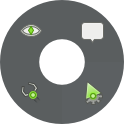
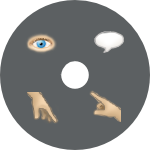
New action menu images from Robin

diff --git a/Renderer.py b/Renderer.py
@@ -125,18 +125,17 @@ class Renderer:
 
         #Topicmenu
         if self.Game.TopicMenu.visible and not self.Game.ScriptManager.isActive():
-            self.screen.blit(self.topicMenuImage,self.Game.TopicMenu.rect)
             for topic in self.Game.TopicMenu.topics:
                 self.screen.blit(topic.render,topic.pos)
                 
         #Window widgets
-        if self.Game.currentWindow is not None:
+        if self.Game.currentWindow:
             self.screen.blit(self.Game.currentWindow.background,self.Game.currentWindow.rect)
             for widget in self.Game.currentWindow.widgets:
                 self.screen.blit(widget.image,widget.rect)
                 
         #Draw element titles
-        if self.Game.TitleManager.currentElement is not None and not self.Game.TopicMenu.visible:
+        if self.Game.TitleManager.currentElement and not self.Game.TopicMenu.visible:
             elementTitle = self.elementTitleFont.render(self.Game.TitleManager.getTitle(),1,self.defaultTitleColor)
             self.screen.blit(elementTitle,(self.screen.get_rect().centerx-elementTitle.get_width()/2,710))           
                         
@@ -147,7 +146,7 @@ class Renderer:
                 self.Game.ScriptManager.loadScriptValues(self.Game.ScriptManager.script[0])
             if self.Game.ScriptManager.getCurrentPartType() == 'ScriptConversationPart':
             
-                if self.Game.currentWindow is not None:
+                if self.Game.currentWindow:
                     #If we have HUD open, put all dialouge on top of screen
                     posX = 512
                     posY = 50
@@ -202,7 +201,7 @@ class Renderer:
                 pygame.draw.lines(self.screen, (255,255,255,255), 0, self.Game.Player.path)
             for element in self.Game.currentScene.visibleElements:
                 pygame.draw.lines(self.scene,(255,0,255),1,[element.rect.topleft,element.rect.topright,element.rect.bottomright,element.rect.bottomleft])
-                if element.actionPos is not None:
+                if element.actionPos:
                     self.scene.blit(self.debugPoint,element.actionPos)
             self.screen.blit(self.debugPoint,pygame.mouse.get_pos())
             pygame.draw.lines(self.screen,(000,255,255),1,[self.Game.Player.rect.topleft,self.Game.Player.rect.topright,self.Game.Player.rect.bottomright,self.Game.Player.rect.bottomleft])

diff --git a/Player.py b/Player.py
@@ -276,7 +276,7 @@ class Player(Character):
         
     def pickUp(self,element):
         self.face(element)
-        if not self.Game.paused and self.inRange(element) and element.getRetrievable():
+        if not self.Game.paused and self.inRange(element) and element.pickupMethod is not None:
             self.Game.Inventory.addItem(element.toItem())
             self.Game.currentScene.visibleElements.remove(element)
             if element.pickupMethod is not None:

diff --git a/Elements.py b/Elements.py
@@ -95,7 +95,7 @@ class VisibleElement(Element):
         self.isCharacter = status
         
     def getRetrievable(self):
-        return self.isCharacter
+        return self.retrievable
         
     def setLookMethod(self,method):
         self.lookMethod = method
